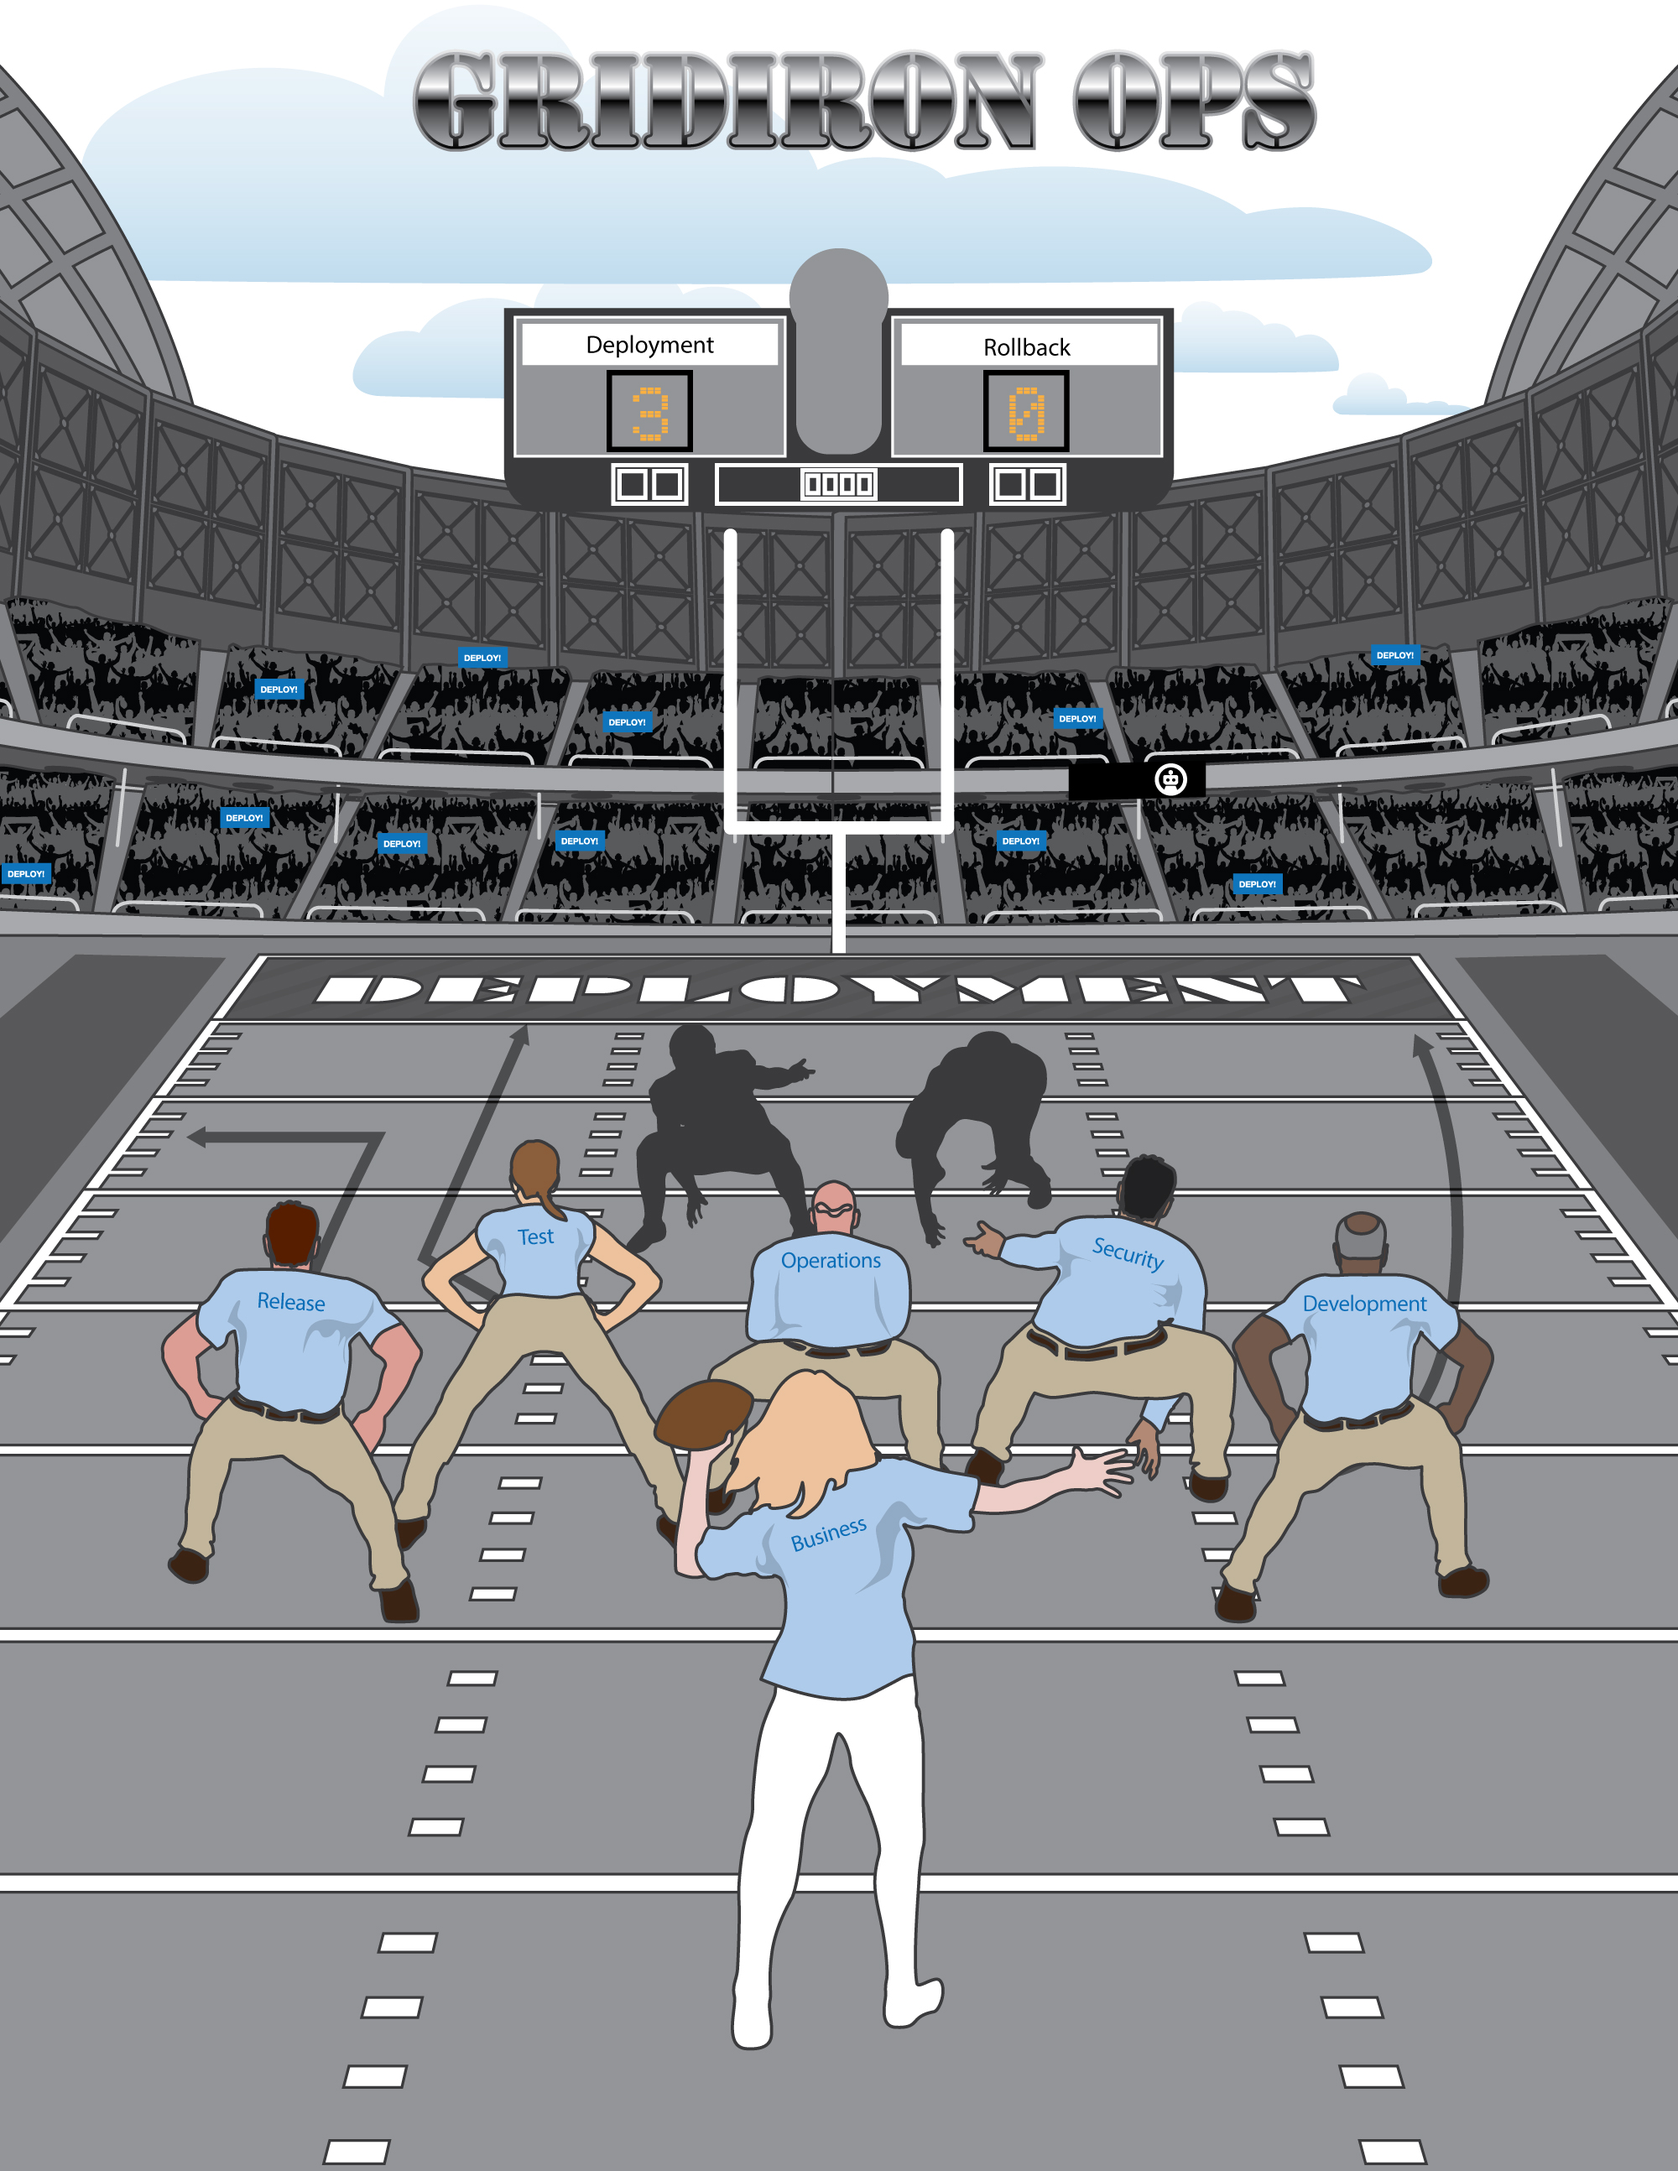
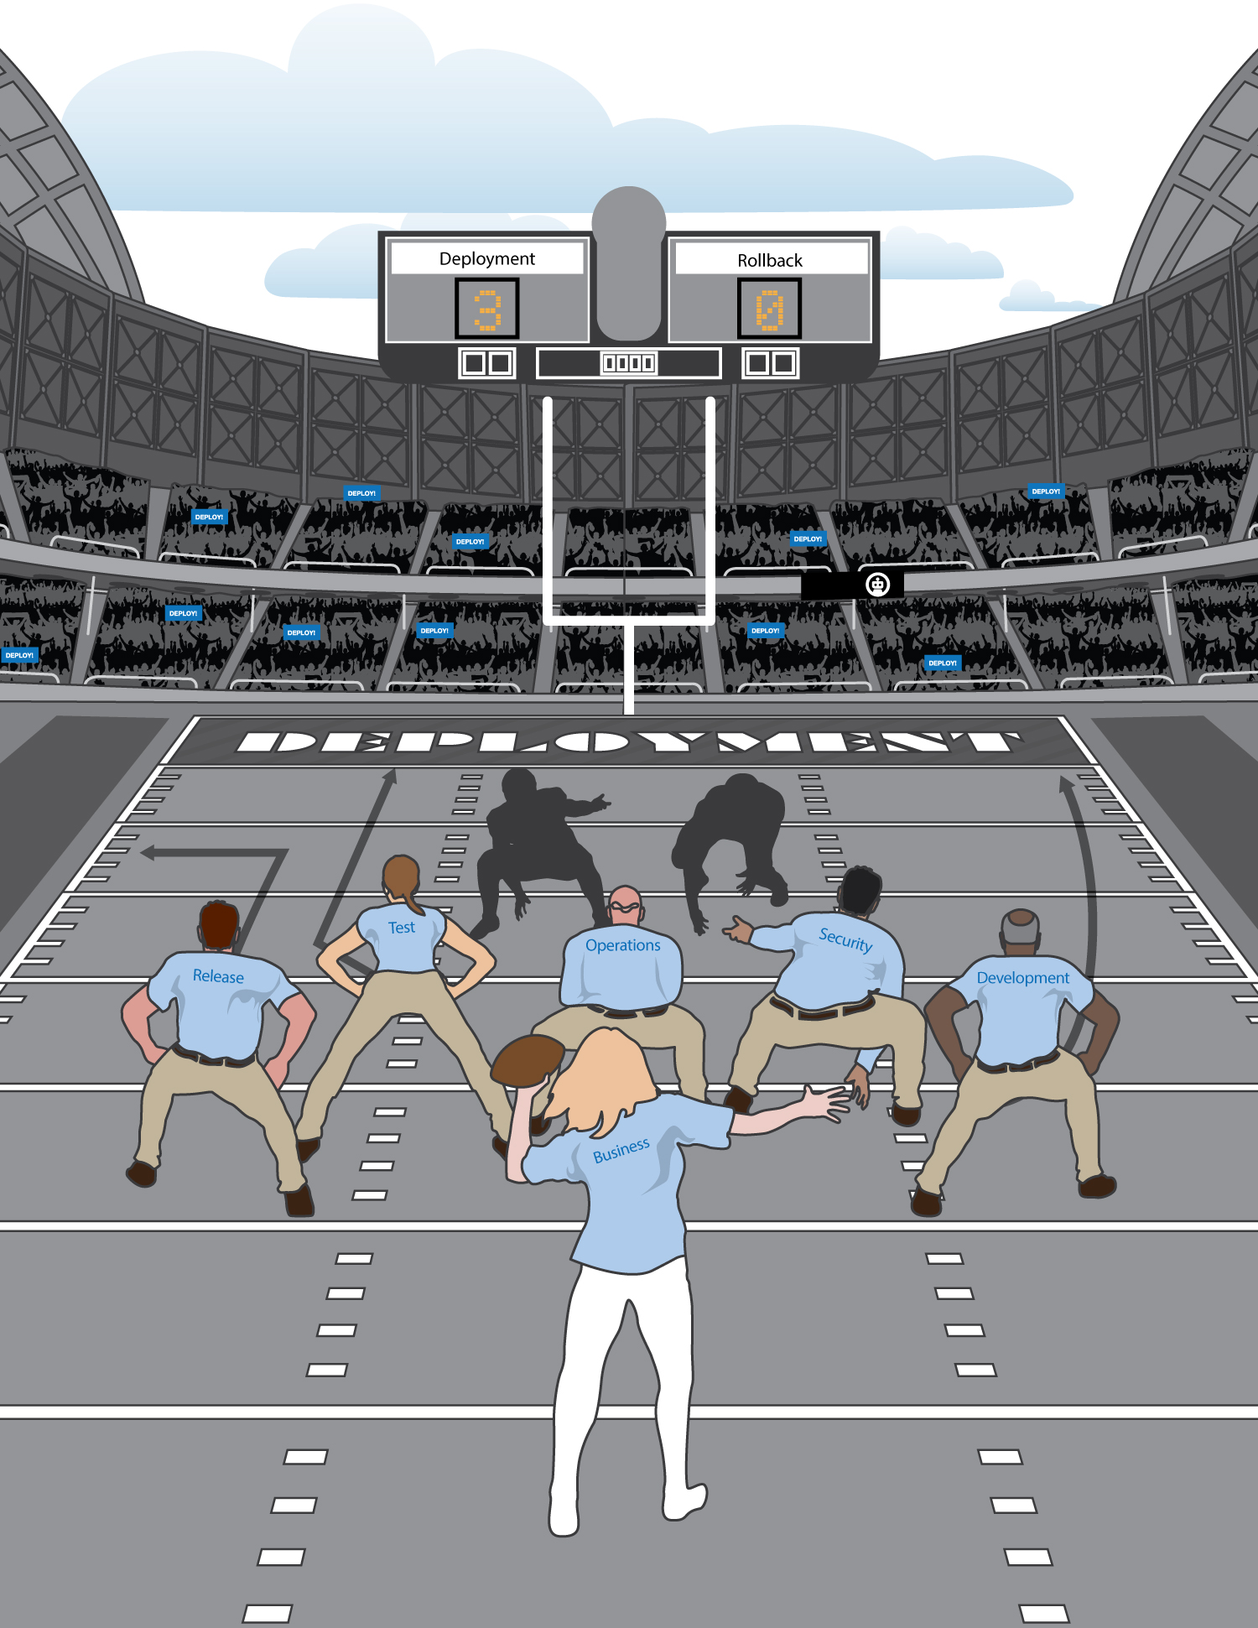
New layout
New layout we discussed during the meeting.

Changed region(s): [[0.2453, 0.0, 0.7973, 0.0927], [0.5827, 0.1546, 0.6133, 0.1855]]

diff --git a/index.html b/index.html
@@ -6,42 +6,59 @@
 </head>
 <body>
 	<div id="content">
-		<img src="footballBackground.jpg" />
-		<div class="aboveImage" id="mainText">
-			<h1>Teamwork &amp; United Mission</h1>
+		<div class="pageHeader" id="mainText">
+			<img src="GridIronLogo.png"></img>
 			<p>DevOps isn't a tool, or a job, or even a practice. DevOps is a culture. A culture that can best be understood by taking a walk on to the gridiron of American Football. Football is a sport that exemplifies teamwork, built on specialties, but only successful in unity. Booz Allen's GridIron Ops framework was created to provide a platform to establish a winning DevOps culture in any sized government or commercial entity.</p>
-			<p>The GridIron Ops framework manifests an easy to understand style of DevOps that focuses the whole team on a single goal: Getting software releases into production. Succeeding at this mission, however, is both challenging and complex. GridIron Ops helps by bringing a "team first" mindset to the game. By highlighting team rather than individual outcomes, the framework keeps teammates focused on the mission and also fosters an engaged and inclusive culture.</p>
 		</div>
-		<div class="aboveImage" id="botSponsor">
-			<a href="http://thoughtbot.github.io/bah-bot/">BOT</a>
+		<div id="imgContent">
+			<img src="footballBackground.jpg" />
+			<div class="aboveImage" id="botSponsor">
+				<a href="http://thoughtbot.github.io/bah-bot/">BOT</a>
+			</div>
+
+
+
+			<script type="text/javascript">
+				$("#content img").one("load", function() {
+					var imgHeight = $("#imgContent img").height();
+
+					$("html").height(imgHeight);
+					$("body").height(imgHeight);
+					$("#content").height(imgHeight);
+					$("#imgContent").height(imgHeight);
+					$("#mainText p").css({fontSize:(imgHeight/70)+'px'});
+					$("#botSponsor").css({fontSize:(imgHeight/80)+'px'});
+
+					if($('#imgContent img').width() >= 1000) {
+						var textPadding = (window.innerWidth-900)/2;
+						$("#mainText").css({paddingLeft: textPadding+'px',paddingRight: textPadding+'px'});
+					}
+					else {
+						$("#mainText").css({paddingLeft: '5%',paddingRight: '5%'});
+					}
+				});
+
+				window.addEventListener('resize', function(){
+					var imgHeight = $("#imgContent img").height();
+
+					var titleHeight = $(".title").height();
+					$("html").height(imgHeight);
+					$("body").height(imgHeight);
+					$("#content").height(imgHeight);
+					$("#imgContent").height(imgHeight);
+					$("#mainText p").css({fontSize:(imgHeight/70)+'px'});
+					$("#botSponsor").css({fontSize:(imgHeight/80)+'px'});
+
+					if($('#imgContent img').width() >= 1000) {
+						var textPadding = (window.innerWidth-900)/2;
+						$("#mainText").css({paddingLeft: textPadding+'px',paddingRight: textPadding+'px'});
+					}
+					else {
+						$("#mainText").css({paddingLeft: '5%',paddingRight: '5%'});
+					}
+				});
+			</script>
 		</div>
-
-
-
-		<script type="text/javascript">
-			$("#content img").one("load", function() {
-				var imgHeight = $("#content img").height();
-
-				$("html").height(imgHeight);
-				$("body").height(imgHeight);
-				$("#content").height(imgHeight);
-				$("#mainText h1").css({fontSize:(imgHeight/35)+'px'});
-				$("#mainText p").css({fontSize:(imgHeight/70)+'px'});
-				$("#botSponsor").css({fontSize:(imgHeight/80)+'px'});
-			});
-
-			window.addEventListener('resize', function(){
-				var imgHeight = $("#content img").height();
-
-				var titleHeight = $(".title").height();
-				$("html").height(imgHeight);
-				$("body").height(imgHeight);
-				$("#content").height(imgHeight);
-				$("#mainText h1").css({fontSize:(imgHeight/35)+'px'});
-				$("#mainText p").css({fontSize:(imgHeight/70)+'px'});
-				$("#botSponsor").css({fontSize:(imgHeight/80)+'px'});
-			});
-		</script>
 	</div>
 </body>
 </html>

diff --git a/style.css b/style.css
@@ -4,11 +4,22 @@ body{
 }
 
 #content {
-	max-width: 2000px;
+	position:absolute;
+	top:0;
+	width: 100%;
+}
+
+#imgContent {
+	max-width: 1000px;
 	width: 100%;
 	position: relative;
 	margin-right: auto;
 	margin-left: auto;
+	margin-top: -40px;
+
+	-moz-box-shadow: 0 0 10px 2px #555;
+    -webkit-box-shadow: 0 0 10px 2px #555;
+	box-shadow: 0 0 10px 2px #555;
 }
 
 img {
@@ -18,24 +29,24 @@ img {
 
 .aboveImage {
 	position: absolute;
+	top: 0;
 }
 
 #mainText {
-	margin-left: 1.5%;
-	width: 95%;
 	background-color: #ffffff;
-	bottom: 2%;
-	border-style: solid;
-	border-width: 5px;
-	border-color: #A7A9AB;
-}
-
-#mainText h1 {
-	text-align: center;
+	padding-bottom: 45px;
+	padding-top: 40px;
 }
 
 #mainText p {
 	padding: 0.5%;
+	margin-top: 0;
+}
+
+#mainText img {
+	position: relative;
+	width: 40%;
+	text-align: right;
 }
 
 a {
